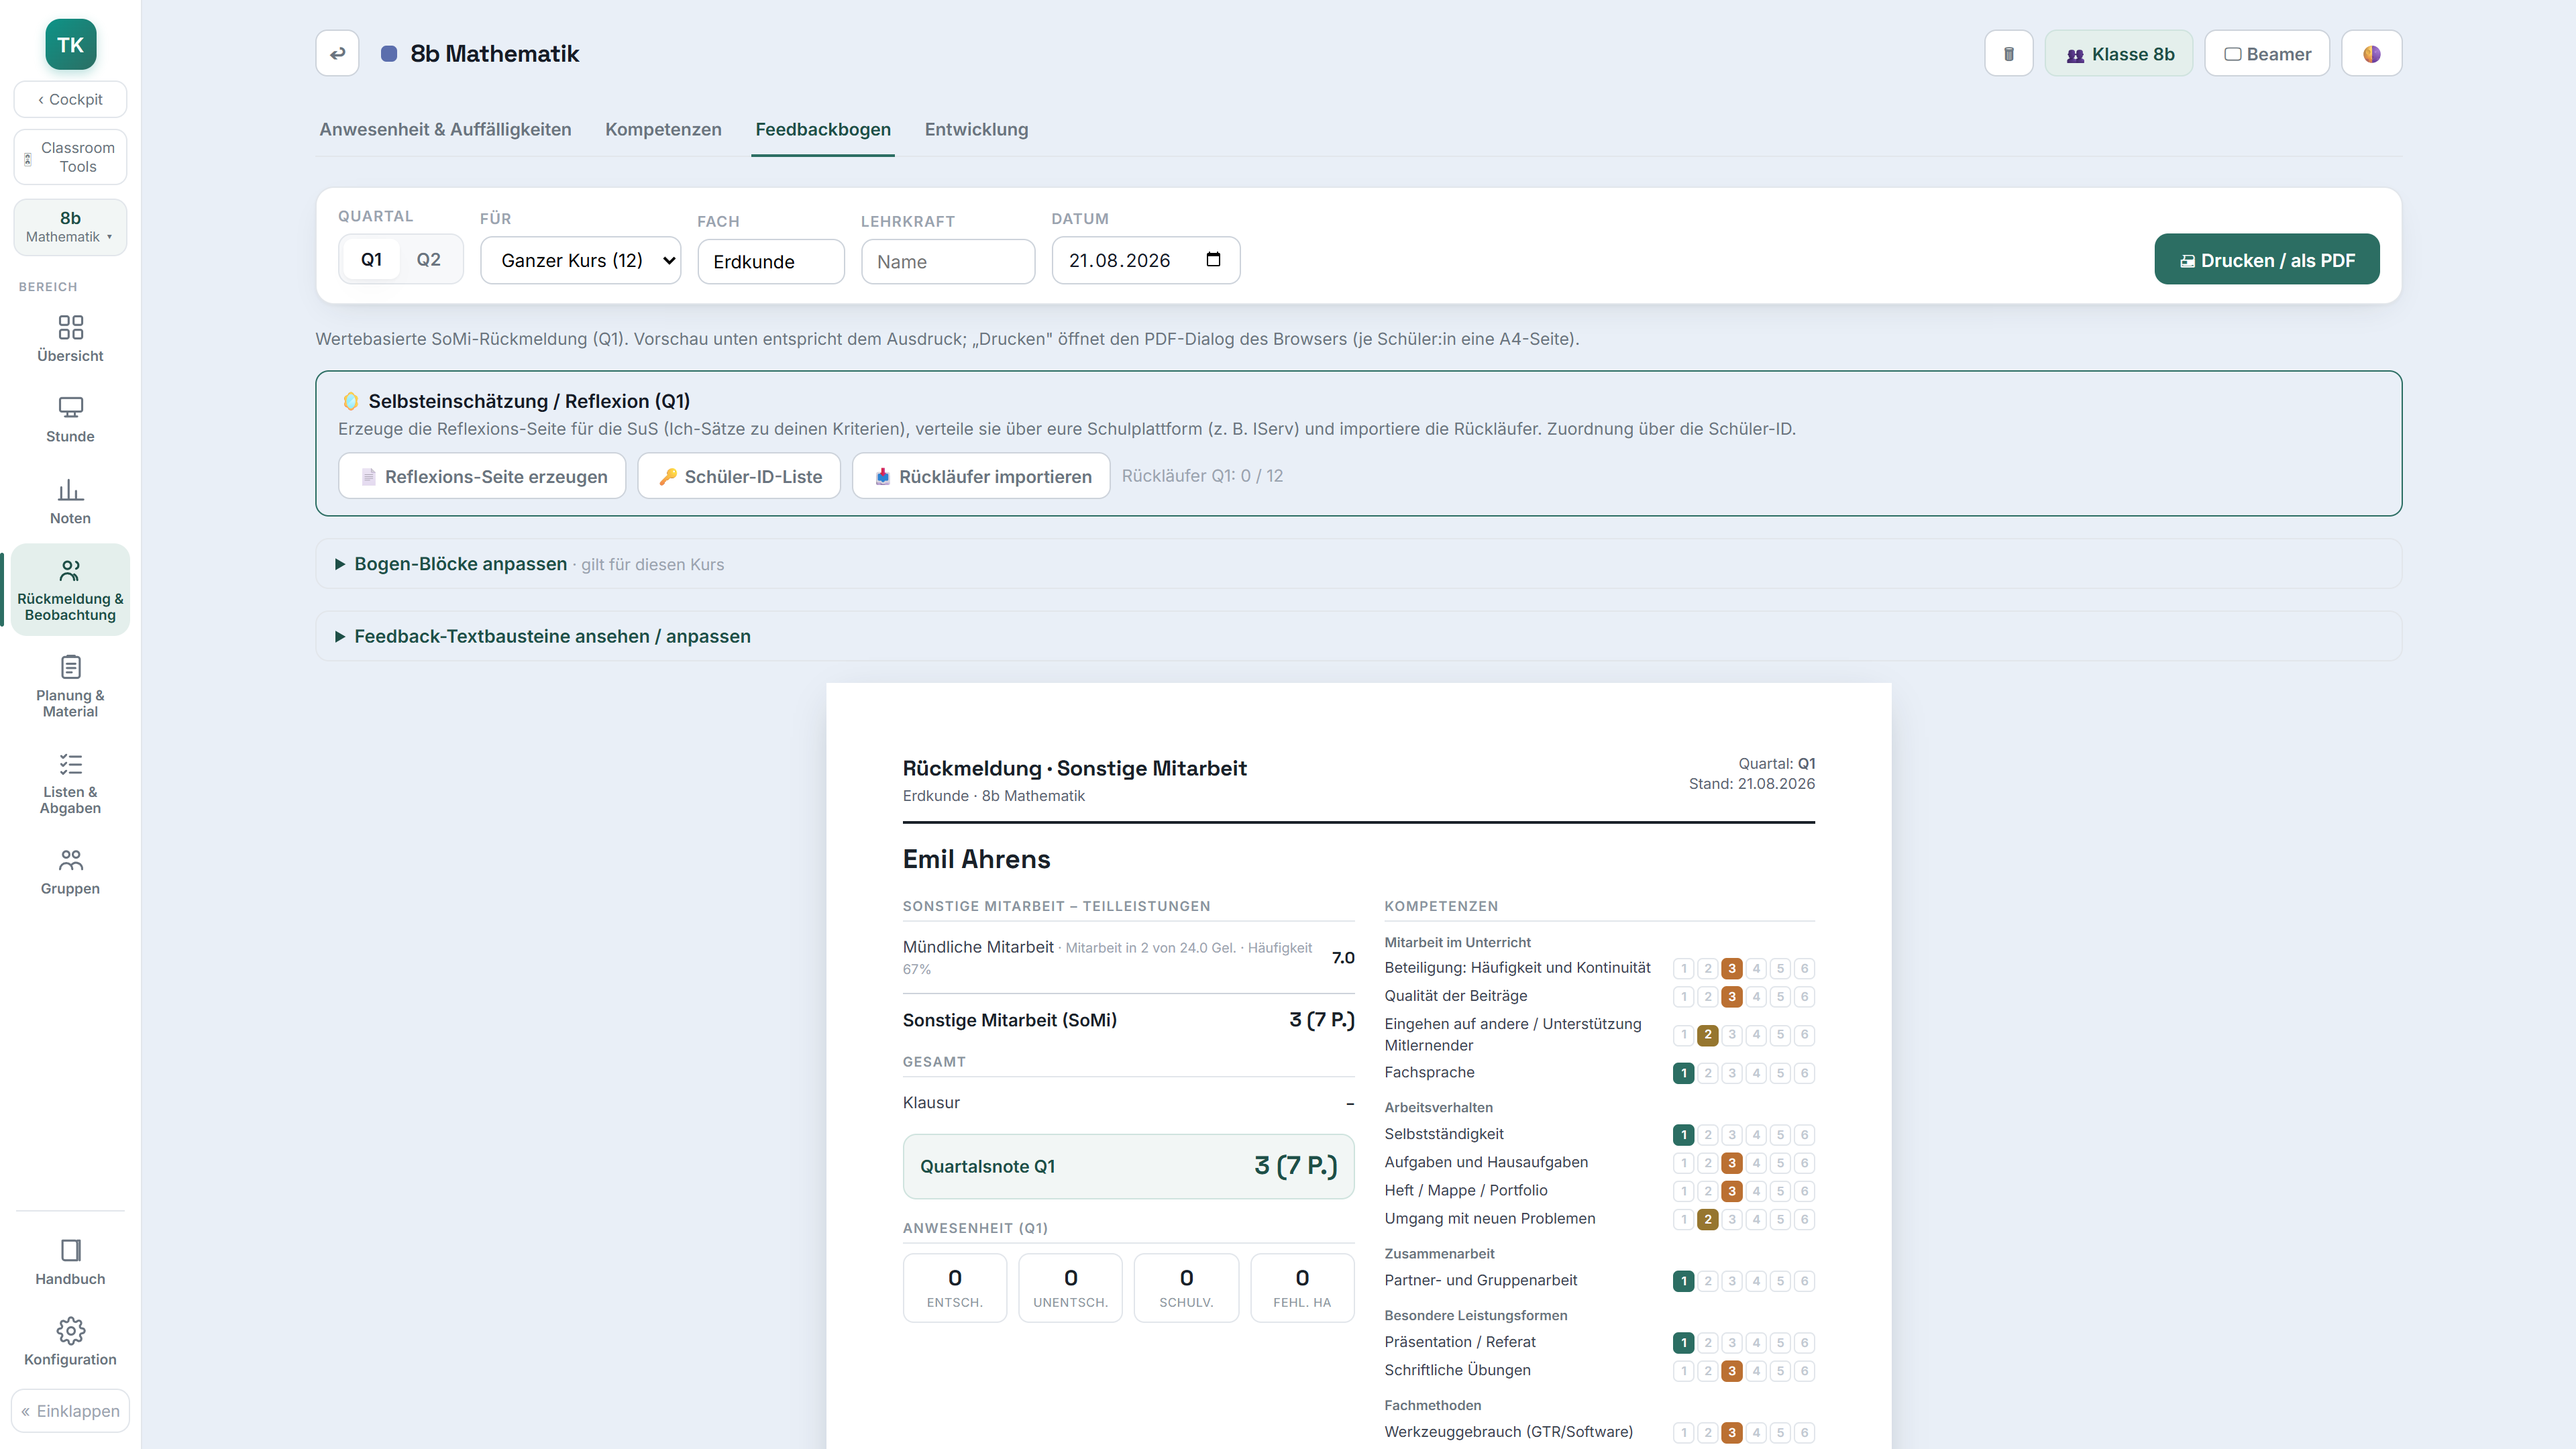
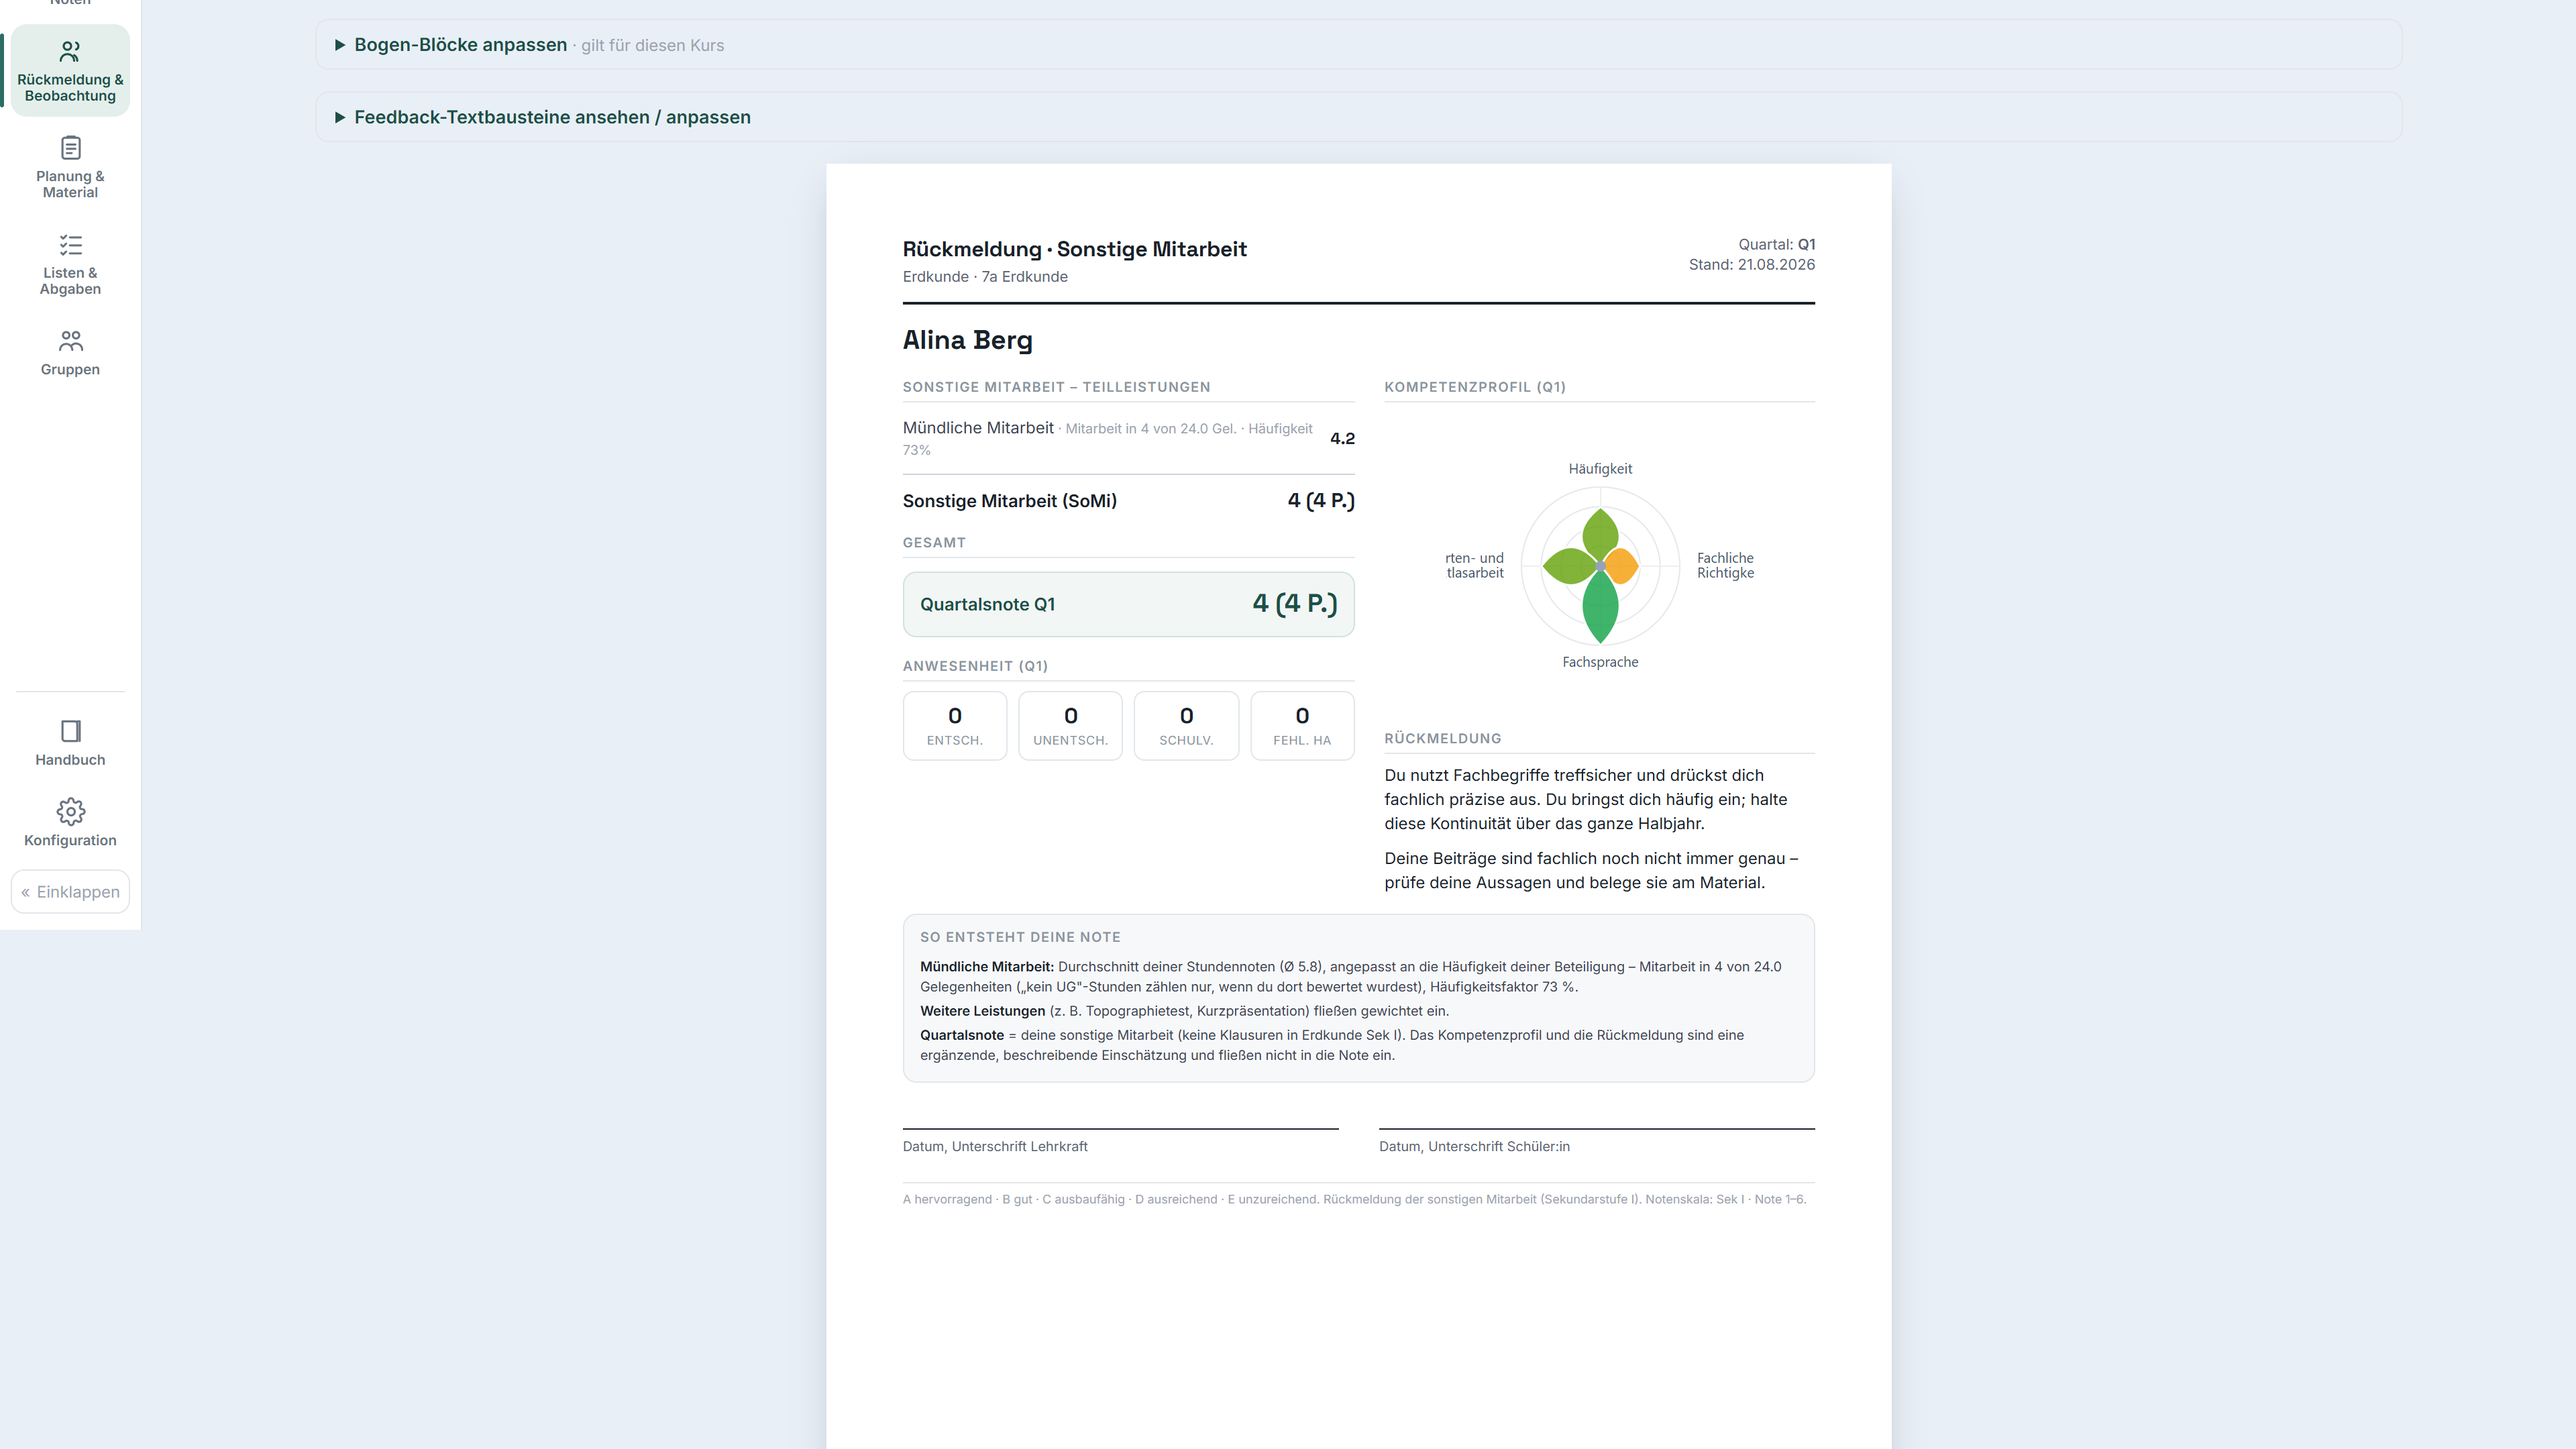
Add files via upload

diff --git a/index.html b/index.html
@@ -224,12 +224,12 @@
           <div class="step-text">
             <span class="step-num">Zum Quartalsende</span>
             <h3>Rückmeldung, die etwas sagt</h3>
-            <p>Aus Kompetenzeinschätzungen und Textbausteinen entsteht ein Feedbackbogen für Schüler:innen und Eltern – druckfertig als PDF oder als vorbereiteter Mail-Entwurf.</p>
+            <p>Aus Kompetenzeinschätzungen und Textbausteinen entsteht ein Feedbackbogen für Schüler:innen und Eltern – mit Kompetenzblume und nachvollziehbarer Notenherleitung, druckfertig als PDF oder als vorbereiteter Mail-Entwurf.</p>
             <p class="step-note">Auf Wunsch mit Selbsteinschätzungsteil: Die Rückläufer werden über die Schüler-ID automatisch wieder zugeordnet.</p>
           </div>
           <div class="window">
             <div class="window-bar"><i></i><i></i><i></i></div>
-            <a class="zoomable" href="screenshots/18_feedbackbogen.png" title="Vergroessern"><img src="screenshots/18_feedbackbogen.png" alt="Feedbackbogen mit Rückmeldetext, Kompetenzeinschätzung und Reflexionsteil." loading="lazy" width="3840" height="2160"></a>
+            <a class="zoomable" href="screenshots/18_feedbackbogen.png" title="Vergroessern"><img src="screenshots/18_feedbackbogen.png" alt="Feedbackbogen mit Notenübersicht, Kompetenzblume und automatisch formulierter Rückmeldung." loading="lazy" width="3840" height="2160"></a>
           </div>
         </div>
 
